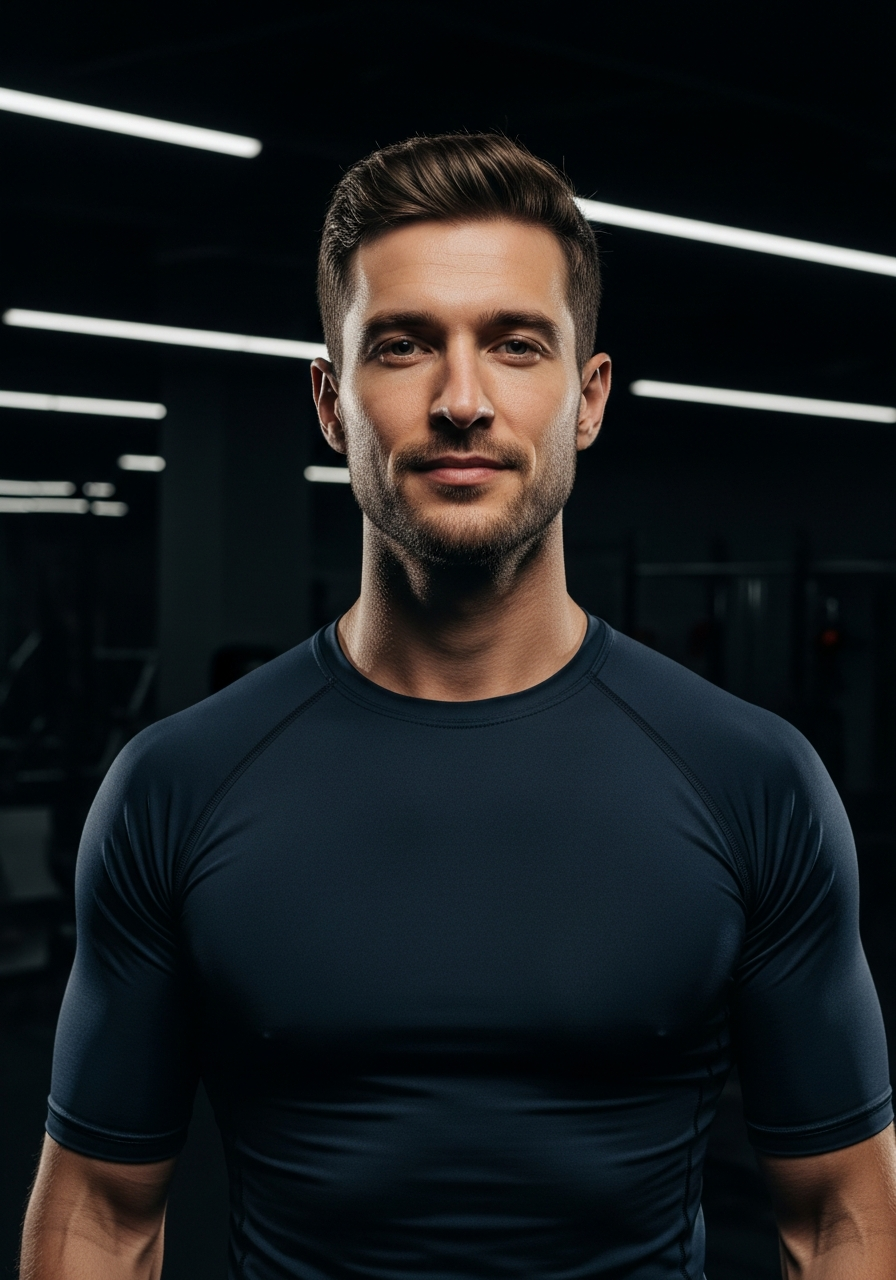
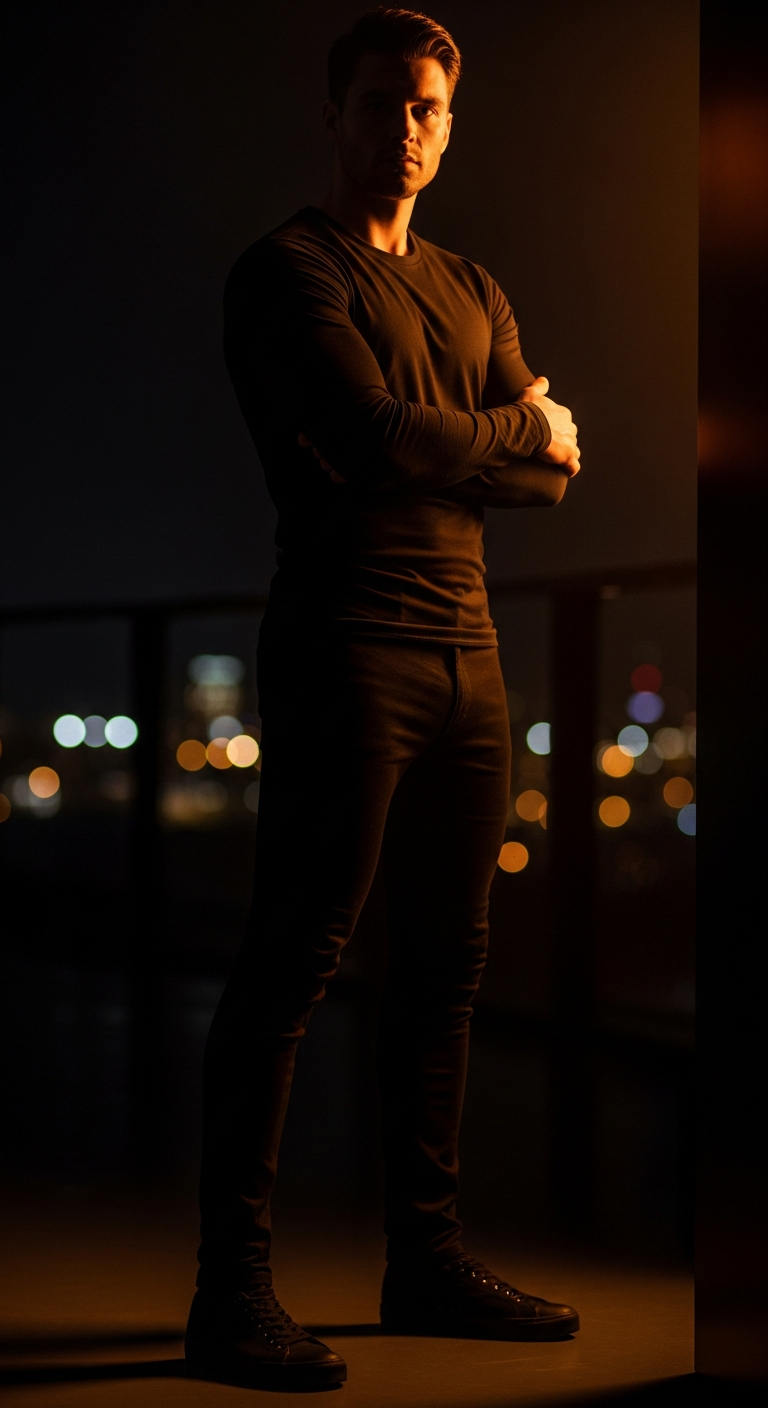
Add premium visual enhancements and a new hero image to the website
Replace founder photo with a new hero image, add a scroll progress bar, ambient page effects, card hover lift, and button glow animations to enhance the premium feel.

Replit-Commit-Author: Agent
Replit-Commit-Session-Id: d2e0ca87-6f3f-44f8-974c-68f388248b81
Replit-Commit-Checkpoint-Type: full_checkpoint
Replit-Commit-Event-Id: ebff6e3f-fd3a-4ce1-be1e-1ae9bb5ee60c
Replit-Commit-Screenshot-Url: https://storage.googleapis.com/screenshot-production-us-central1/8d3e4eb2-7728-48d0-97f5-0d9ff8fee4a2/d2e0ca87-6f3f-44f8-974c-68f388248b81/QuqdWjc
Replit-Helium-Checkpoint-Created: true

diff --git a/client/src/pages/Home.tsx b/client/src/pages/Home.tsx
@@ -13,7 +13,7 @@ import {
 } from "lucide-react";
 
 import logoImg from "@assets/logo_transparent.png";
-import founderImg from "@assets/main_profile_pic_20260225_150724_0000_1773138297391.png";
+import heroImg from "@assets/generated_images/hero_coach.png";
 import coach1Img from "@assets/580868512_17843744343613829_22300884961125480_n_1773149974233.jpg";
 import coach2Img from "@assets/626956249_18573276355036228_693123345985490863_n_1773149974233.jpg";
 import coach3Img from "@assets/637758797_17889993744428899_7709878898914652022_n_1773149974234.jpg";
@@ -62,6 +62,46 @@ function FadeIn({ children, className = "", delay = 0, from = "below" }: {
       transition={{ delay }}>
       {children}
     </motion.div>
+  );
+}
+
+/* ─── scroll progress bar ─────────────────────────────────────── */
+function ScrollProgress() {
+  const [pct, setPct] = useState(0);
+  useEffect(() => {
+    const onScroll = () => {
+      const max = document.documentElement.scrollHeight - window.innerHeight;
+      setPct(max > 0 ? (window.scrollY / max) * 100 : 0);
+    };
+    window.addEventListener("scroll", onScroll, { passive: true });
+    return () => window.removeEventListener("scroll", onScroll);
+  }, []);
+  return (
+    <div className="fixed top-0 left-0 z-[300] h-[2px] pointer-events-none"
+      style={{
+        width: `${pct}%`,
+        background: "linear-gradient(90deg, #FF4500, #FF7A00)",
+        boxShadow: "0 0 8px rgba(255,69,0,0.55)",
+        transition: "width 0.08s linear",
+      }} />
+  );
+}
+
+/* ─── page ambient ───────────────────────────────────────────── */
+function PageAmbient() {
+  return (
+    <div className="fixed inset-0 z-0 pointer-events-none overflow-hidden">
+      <div className="absolute -top-[20%] -right-[10%] w-[55vw] h-[55vw] max-w-[680px] max-h-[680px]"
+        style={{
+          background: "radial-gradient(circle, rgba(255,69,0,0.055) 0%, transparent 65%)",
+          animation: "orb-float-1 28s ease-in-out infinite",
+        }} />
+      <div className="absolute bottom-[10%] -left-[8%] w-[45vw] h-[45vw] max-w-[560px] max-h-[560px]"
+        style={{
+          background: "radial-gradient(circle, rgba(255,100,0,0.035) 0%, transparent 65%)",
+          animation: "orb-float-2 38s ease-in-out infinite",
+        }} />
+    </div>
   );
 }
 
@@ -282,7 +322,7 @@ function Hero() {
             transition={{ duration: 0.5, delay: 0.7 }}
             className="flex flex-col sm:flex-row gap-2.5 mb-8 sm:mb-10">
             <button data-testid="hero-cta-primary" onClick={() => go("apply")}
-              className="relative flex items-center justify-center gap-2 h-11 sm:h-12 px-6 rounded-xl bg-[#FF4500] hover:bg-[#FF5500] active:scale-[0.97] text-white text-[13px] sm:text-[14px] font-bold transition-colors overflow-hidden group">
+              className="btn-glow relative flex items-center justify-center gap-2 h-11 sm:h-12 px-6 rounded-xl bg-[#FF4500] hover:bg-[#FF5500] active:scale-[0.97] text-white text-[13px] sm:text-[14px] font-bold transition-colors overflow-hidden group">
               <span className="absolute inset-0 -translate-x-full group-hover:translate-x-full transition-transform duration-600 bg-gradient-to-r from-transparent via-white/[0.09] to-transparent" />
               Get Your Free Audit <ArrowRight size={14} />
             </button>
@@ -317,13 +357,21 @@ function Hero() {
         </div>
       </div>
 
-      {/* ══ Founder photo — desktop only ══ */}
-      <div className="hidden lg:block w-[43%] xl:w-[40%] relative flex-shrink-0 z-10">
-        <img src={founderImg} alt="HustleCoreX founder" data-testid="hero-image"
-          className="absolute inset-0 w-full h-full object-cover object-top" />
-        <div className="absolute inset-0 bg-gradient-to-r from-[#080808] via-[#080808]/10 to-transparent" />
-        <div className="absolute inset-0 bg-gradient-to-b from-[#080808]/50 via-transparent to-[#080808]/25" />
-      </div>
+      {/* ══ Hero image — desktop only ══ */}
+      <motion.div
+        initial={{ opacity: 0, scale: 1.03 }}
+        animate={{ opacity: 1, scale: 1 }}
+        transition={{ duration: 1.2, delay: 0.6, ease: [0.22, 1, 0.36, 1] }}
+        className="hidden lg:block w-[46%] xl:w-[44%] relative flex-shrink-0 z-10">
+        <img src={heroImg} alt="HustleCoreX elite coach" data-testid="hero-image"
+          className="absolute inset-0 w-full h-full object-cover object-center" />
+        {/* left-to-right fade into page */}
+        <div className="absolute inset-0 bg-gradient-to-r from-[#080808] via-[#080808]/20 to-transparent" />
+        {/* top and bottom edge fades */}
+        <div className="absolute inset-0 bg-gradient-to-b from-[#080808]/70 via-transparent to-[#080808]/50" />
+        {/* subtle vignette on right edge */}
+        <div className="absolute inset-0 bg-gradient-to-l from-[#080808]/30 to-transparent" />
+      </motion.div>
 
     </section>
   );
@@ -524,7 +572,7 @@ function Results() {
           {cards.map((r, i) => (
             <motion.div key={i} variants={childVariantsScale}>
               <div data-testid={`result-card-${i}`}
-                className="border border-white/[0.05] rounded-2xl bg-[#0D0D0D] overflow-hidden h-full flex flex-col hover:border-white/[0.09] transition-colors">
+                className="card-lift border border-white/[0.05] rounded-2xl bg-[#0D0D0D] overflow-hidden h-full flex flex-col">
 
                 {/* quote */}
                 <div className="flex-1 p-6 md:p-8">
@@ -614,7 +662,7 @@ function Pricing() {
           {plans.map((p, i) => (
             <motion.div key={i} variants={childVariantsScale}>
               <div data-testid={`pricing-card-${p.name.replace(" ", "").toLowerCase()}`}
-                className={`rounded-2xl p-6 md:p-8 flex flex-col h-full relative overflow-hidden ${
+                className={`card-lift rounded-2xl p-6 md:p-8 flex flex-col h-full relative overflow-hidden ${
                   p.highlight
                     ? "border border-white/[0.12] bg-[#0D0D0D]"
                     : "border border-white/[0.05] bg-[#0D0D0D]"
@@ -767,7 +815,7 @@ function CTAStrip() {
               </h2>
             </div>
             <button data-testid="cta-banner-button" onClick={() => go("apply")}
-              className="relative flex-shrink-0 flex items-center gap-2 h-12 px-7 rounded-xl bg-[#FF4500] hover:bg-[#FF5500] text-white text-[14px] font-bold transition-colors active:scale-[0.97] shadow-[0_0_40px_rgba(255,69,0,0.18)]">
+              className="btn-glow relative flex-shrink-0 flex items-center gap-2 h-12 px-7 rounded-xl bg-[#FF4500] hover:bg-[#FF5500] text-white text-[14px] font-bold transition-colors active:scale-[0.97]">
               Get a Free Audit <ArrowRight size={15} />
             </button>
           </div>
@@ -832,8 +880,8 @@ function Apply() {
 
             {/* founder photo + quote */}
             <div className="flex items-center gap-4 p-5 rounded-2xl border border-white/[0.05] bg-[#0D0D0D]">
-              <img src={founderImg} alt="Founder"
-                className="w-12 h-12 rounded-full object-cover object-top border border-white/[0.08] flex-shrink-0" />
+              <img src={heroImg} alt="Founder"
+                className="w-12 h-12 rounded-full object-cover object-center border border-white/[0.08] flex-shrink-0" />
               <div>
                 <p className="text-[13px] text-white/50 italic leading-relaxed mb-1.5">
                   "Every coach who applies gets a real audit - not a sales pitch."
@@ -1010,6 +1058,8 @@ function Footer() {
 export default function Home() {
   return (
     <div className="min-h-screen bg-[#080808] overflow-x-hidden">
+      <ScrollProgress />
+      <PageAmbient />
       <IntroOverlay />
       <Nav />
       <Hero />

diff --git a/client/src/index.css b/client/src/index.css
@@ -143,6 +143,37 @@
 /* ── Spin ── */
 @keyframes spin { to { transform: rotate(360deg); } }
 
+/* ── Premium card hover lift ── */
+.card-lift {
+  transition: transform 0.3s cubic-bezier(0.22, 1, 0.36, 1),
+              border-color 0.3s ease,
+              box-shadow 0.3s ease;
+}
+.card-lift:hover {
+  transform: translateY(-3px);
+  border-color: rgba(255,255,255,0.1);
+  box-shadow: 0 12px 40px rgba(0,0,0,0.35);
+}
+
+/* ── Orange glow button pulse ── */
+@keyframes glow-pulse {
+  0%, 100% { box-shadow: 0 0 28px rgba(255,69,0,0.22); }
+  50%       { box-shadow: 0 0 44px rgba(255,69,0,0.36); }
+}
+.btn-glow { animation: glow-pulse 2.8s ease-in-out infinite; }
+
+/* ── Section gradient divider ── */
+.section-divider {
+  height: 1px;
+  background: linear-gradient(90deg,
+    transparent 0%,
+    rgba(255,255,255,0.05) 20%,
+    rgba(255,255,255,0.08) 50%,
+    rgba(255,255,255,0.05) 80%,
+    transparent 100%
+  );
+}
+
 /* ── Hide scrollbar ── */
 @layer utilities {
   .scrollbar-hide { -ms-overflow-style: none; scrollbar-width: none; }
